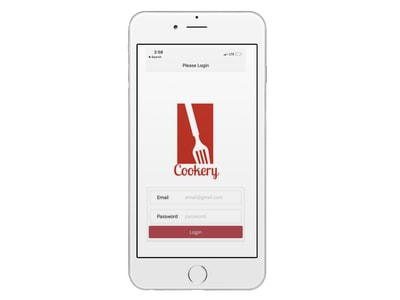
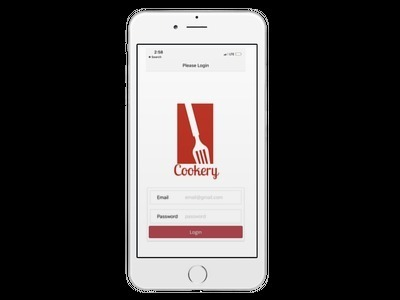
added image

diff --git a/index.html b/index.html
@@ -26,7 +26,7 @@
             <span class="icon-bar"></span>
           </button>
           <a class="navbar-brand" href="#home">
-            <img src="./assets/images/mylogo.jpg" width="200" height="200" alt="mylogo">
+            <img src="./assets/images/myLogo.PNG" width="200" height="200" alt="mylogo">
           </a>
         </div>
         <div id="navbar" class="collapse navbar-collapse">
@@ -145,7 +145,7 @@
 <div class="row" class="cards">
   <div class="col-lg-6">
 <div class="tile"> 
-  <img src="./assets/images/cookery.jpg">
+  <img src="./assets/images/cookery.PNG">
   <div class="text">
 <!--   <h1>Cookery</h1>
  -->  <h2 class="animate-text">Cookery</h2>
